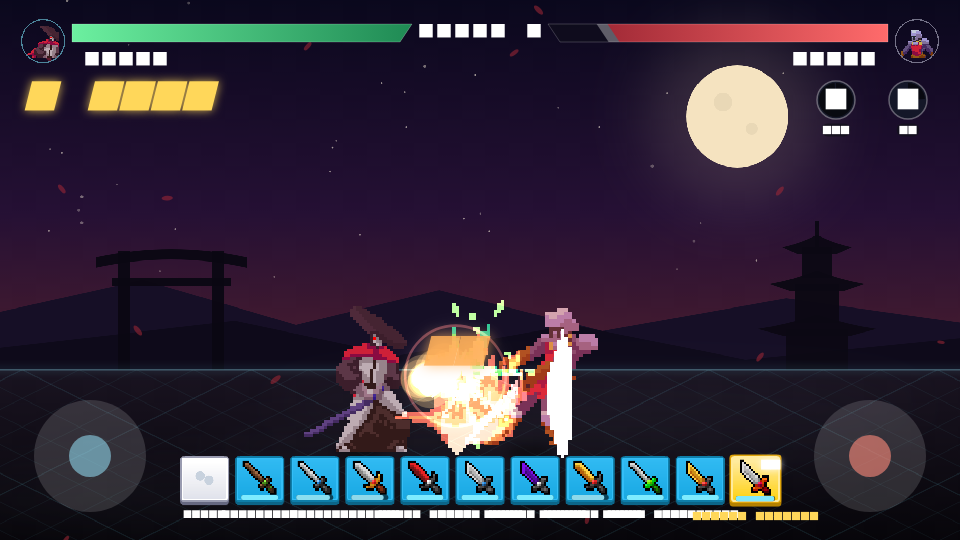
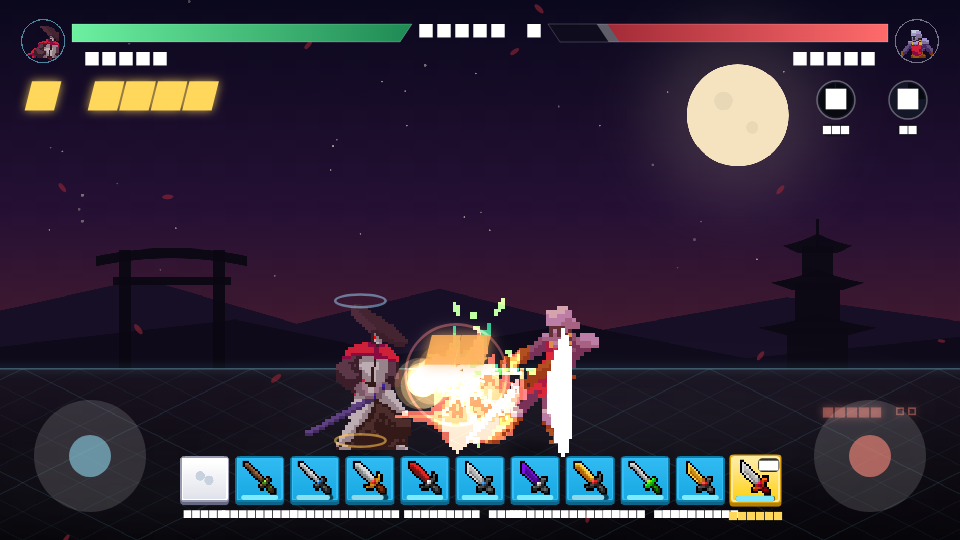
fixeing git local id

diff --git a/test/controls_test.dart b/test/controls_test.dart
@@ -1,0 +1,53 @@
+import 'package:flutter_test/flutter_test.dart';
+import 'package:shadow_duel/game/fighter.dart';
+import 'package:shadow_duel/game/shadow_game.dart';
+import 'package:shadow_duel/game/weapons.dart';
+
+import 'helpers.dart';
+
+void main() {
+  testWidgets('zone guards, smash recharge and deferred card swaps', (tester) async {
+    final game = await bootGame(tester);
+    game.startStage(1);
+    await untilPhase(tester, game, Phase.fighting);
+    final hero = game.hero;
+    final v = game.villain!;
+    v.maxHp = 500;
+    v.hp = 500;
+    hero.wx = -60;
+    hero.zPos = v.zPos = 80;
+    v.wx = 40;
+    hero.facing = 1;
+
+    // A high guard turns a head cut but not a low sweep.
+    v.guardZone = GuardZone.high;
+    expect(v.guards(Zone.head), isTrue);
+    expect(v.guards(Zone.body), isTrue);
+    expect(v.guards(Zone.feet), isFalse);
+    v.guardZone = GuardZone.low;
+    expect(v.guards(Zone.head), isFalse);
+    expect(v.guards(Zone.feet), isTrue);
+    v.guardZone = GuardZone.none;
+
+    // The skull smash rests between uses.
+    expect(game.smashCd, 0);
+    game.heroAttack(MoveKind.heavy);
+    game.smashCd = ShadowGame.smashRecharge;
+    await frames(tester, 3);
+    expect(game.smashCd, greaterThan(0));
+
+    // A card tapped mid-swing is drawn only once the swing finishes, so a
+    // blow never mixes two blades.
+    await untilState(tester, hero, FState.idle);
+    game.equipCard(0);
+    final before = hero.weapon.id;
+    game.heroAttack(MoveKind.slash);
+    expect(hero.attacking, isTrue);
+    game.equipCard(1);
+    expect(hero.weapon.id, before);
+    await untilState(tester, hero, FState.idle, max: 200);
+    await frames(tester, 3);
+    expect(hero.weapon.id, 'katana');
+    game.pauseEngine();
+  });
+}

diff --git a/tool/capture_arts_test.dart b/tool/capture_arts_test.dart
@@ -2,6 +2,7 @@ import 'package:flame/game.dart';
 import 'package:flutter/material.dart';
 import 'package:flutter_test/flutter_test.dart';
 import 'package:shadow_duel/game/arts.dart';
+import 'package:shadow_duel/game/fighter.dart';
 import 'package:shadow_duel/game/gestures.dart';
 import 'package:shadow_duel/game/shadow_game.dart';
 import 'package:shadow_duel/ui/screens.dart';
@@ -105,6 +106,18 @@ void main() {
     game.castArt(ArtGesture.v);
     await frames(tester, 5);
     await shot(tester, 'art_dragon');
+
+    // Guard read-out: the villain covers high, so the feet are ringed open.
+    game.startStage(2);
+    for (var i = 0; i < 120 && game.phase != Phase.fighting; i++) {
+      await tester.pump(const Duration(milliseconds: 32));
+    }
+    game.hero.wx = -80;
+    game.villain!.wx = 60;
+    game.hero.zPos = game.villain!.zPos = 90;
+    game.villain!.guardZone = GuardZone.high;
+    await frames(tester, 3);
+    await shot(tester, 'guard_open');
 
     game.showArmory();
     await tester.pump(const Duration(milliseconds: 100));

diff --git a/test/cards_test.dart b/test/cards_test.dart
@@ -38,4 +38,24 @@ void main() {
     expect(Swords.unlockedAt(0).map((s) => s.id), ['wakizashi', 'katana']);
     expect(Swords.unlockedAt(16).length, 10);
   });
+
+  test('auto-draw takes the freshest blade, never a sliver, else bare hands', () {
+    final deck = CardDeck(Swords.unlockedAt(2));
+    // Wakizashi almost spent, nodachi fresh: the nodachi is drawn, not slot 0.
+    deck.cards[0].activeLeft = 0.5;
+    deck.equip(1);
+    deck.cards[1].activeLeft = 0.05;
+    deck.update(0.1);
+    expect(deck.weapon.id, 'nodachi');
+
+    // With only slivers left, the fighter goes bare-handed instead of
+    // chain-spending cards.
+    for (final c in deck.cards) {
+      c.activeLeft = 0.5;
+    }
+    deck.equip(2);
+    deck.update(0.6);
+    expect(deck.equipped, isNull);
+    expect(deck.weapon.id, 'fists');
+  });
 }

diff --git a/test/helpers.dart b/test/helpers.dart
@@ -43,3 +43,9 @@ Future<void> untilPhase(WidgetTester tester, ShadowGame game, Phase phase, {int 
     await tester.pump(const Duration(milliseconds: 32));
   }
 }
+
+Future<void> untilState(WidgetTester tester, dynamic fighter, dynamic state, {int max = 120}) async {
+  for (var i = 0; i < max && fighter.state != state; i++) {
+    await tester.pump(const Duration(milliseconds: 32));
+  }
+}
